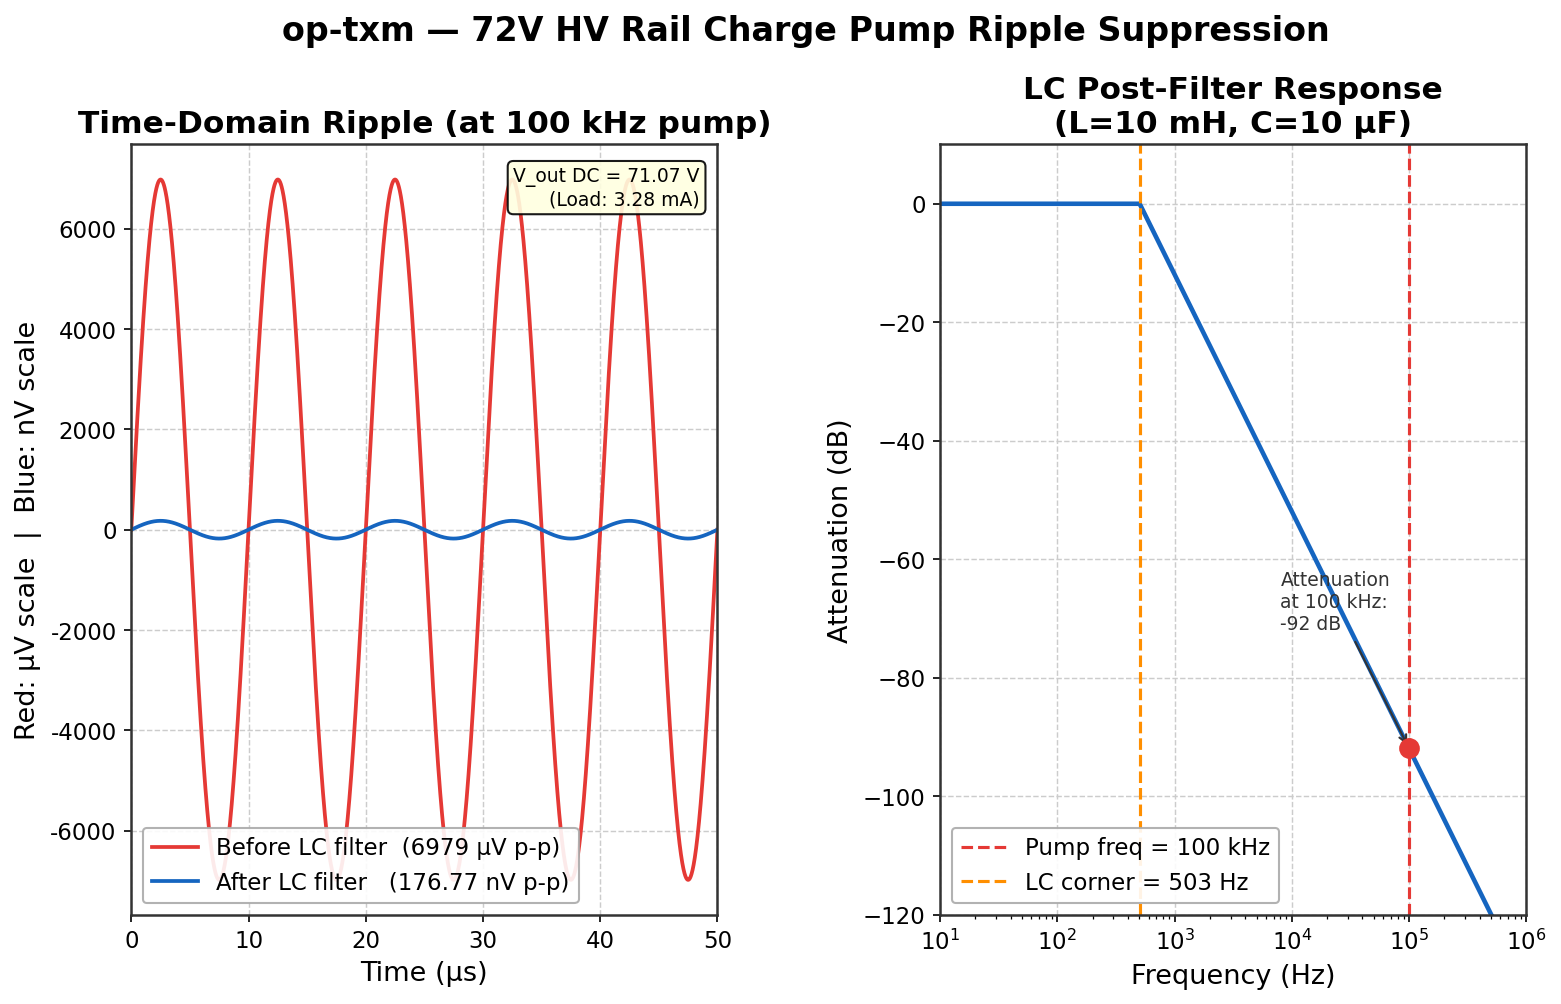
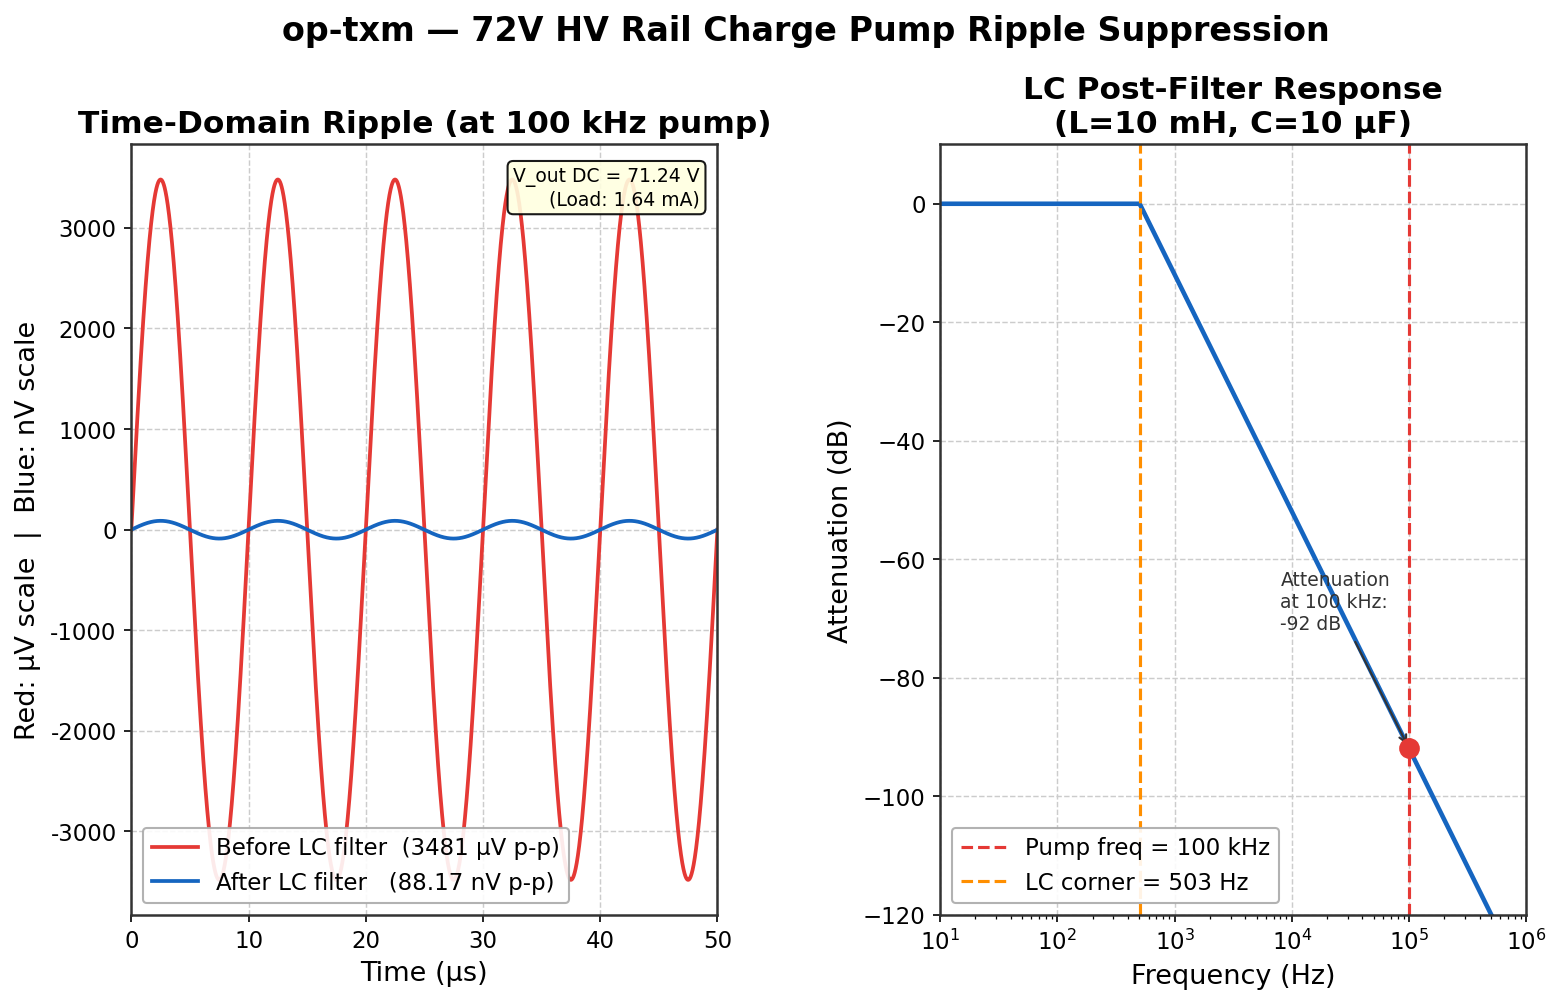
generate_plots.py: fix stale current values, remove OCM remnants
- I_LOAD_HV: 3.28 mA → 1.636 mA (actual JFET Ids; only load on 72V rail)
- I_LR8: 3.47 mA → 4.7 mA (TPS7A 1.0 + OPA1642 3.6 + misc 0.1 mA)
- I_OPAMP_TOTAL: 3.47 mA → 3.7 mA (OPA1642 dual Iq + misc)
- Remove LDR_VALUES dict (no optical compressor in op-txm)
- Remove unused GBW and A_OL_DC variables
- Thermal results: LR8 Tj 58.3→63.0°C, TPS7A 48.5→48.7°C (both PASS)
- Ripple post-LC: 88 nV p-p (0.088 µV); consistent with boost_72v.py

README: update thermal values to match corrected current budget

diff --git a/sim/generate_plots.py b/sim/generate_plots.py
@@ -61,17 +61,9 @@ RIN      = 10e3
 RF       = 47e3
 R_SHELF  = 47e3
 C_DEEMPH = 150e-12   # updated from 330 pF — see dual_capsule_eq.py for rationale
-GBW      = 8e6
-A_OL_DC  = 1e5
 
 F_P_ZF = 1.0 / (2 * np.pi * (RF + R_SHELF) * C_DEEMPH)
 F_Z_ZF = 1.0 / (2 * np.pi * R_SHELF * C_DEEMPH)
-
-LDR_VALUES = {
-    "10 kΩ (full compression)":  10e3,
-    "100 kΩ":                   100e3,
-    "1 MΩ (no compression)":     1e6,
-}
 
 FREQS = np.logspace(np.log10(10), np.log10(100e3), 4000)
 
@@ -178,7 +170,7 @@ V_DIODE     = 0.30
 F_OSC       = 100e3
 C_PUMP      = 100e-9
 C_OUT       = 4.7e-6
-I_LOAD_HV   = 3.28e-3    # A  HV section load (from DFM report)
+I_LOAD_HV   = 1.636e-3   # A  JFET Ids (servo-locked); only load on 72V rail
 L_LPF       = 10e-3
 C_LPF       = 10e-6
 R_DAMP      = 5.0        # Ω  series resistance of inductor (ESR estimate)
@@ -398,7 +390,7 @@ with plt.rc_context(STYLE):
 # LR8: drops 48V → 35.2V at ~3.47 mA (power/LDO section load)
 V_IN_LR8   = 48.0
 V_OUT_LR8  = 35.2
-I_LR8      = 3.47e-3
+I_LR8      = 4.7e-3    # A  35.2V rail load: TPS7A(1.0) + OPA1642(3.6) + misc(0.1) mA
 P_LR8      = (V_IN_LR8 - V_OUT_LR8) * I_LR8
 Rth_LR8    = 300.0   # °C/W  SOT-89 package (datasheet: 250–350 °C/W)
 T_AMB      = 45.0    # °C  internal microphone body temperature (non-ventilated)
@@ -406,7 +398,7 @@ Tj_LR8     = T_AMB + P_LR8 * Rth_LR8
 
 # TPS7A39: ±15V LDO, Vin=35.2V, Vout=±15V, Iq=75µA each
 # Each half dissipates: (35.2 - 15) * I_out_half
-I_OPAMP_TOTAL = 3.47e-3   # mA total ±15V load (op-amps Iq + output stage)
+I_OPAMP_TOTAL = 3.7e-3    # A  ±15V load: OPA1642 dual Iq(3.6mA) + misc(0.1mA)
 I_EACH_HALF   = I_OPAMP_TOTAL / 2
 P_TPS_POS  = (V_OUT_LR8 - 15.0) * I_EACH_HALF
 P_TPS_NEG  = (V_OUT_LR8 - 15.0) * I_EACH_HALF

diff --git a/README.md b/README.md
@@ -115,8 +115,8 @@ All simulations run analytically (Python) with ngspice batch mode for transient 
 | Parameter | Value | Status |
 |---|---|---|
 | 72V rail ripple (after LC filter) | 0.088 µV p-p | PASS |
-| LR8 junction temperature | 58.3 °C (45 °C ambient) | PASS |
-| TPS7A39 junction temperature | 48.5 °C (45 °C ambient) | PASS |
+| LR8 junction temperature | 63.0 °C (45 °C ambient) | PASS |
+| TPS7A39 junction temperature | 48.7 °C (45 °C ambient) | PASS |
 | Phantom current draw | 9.09 mA typ / 10.97 mA max | PASS typ (< 10 mA IEC 61938) |
 
 ### 4.2 JFET Buffer + DC Servo